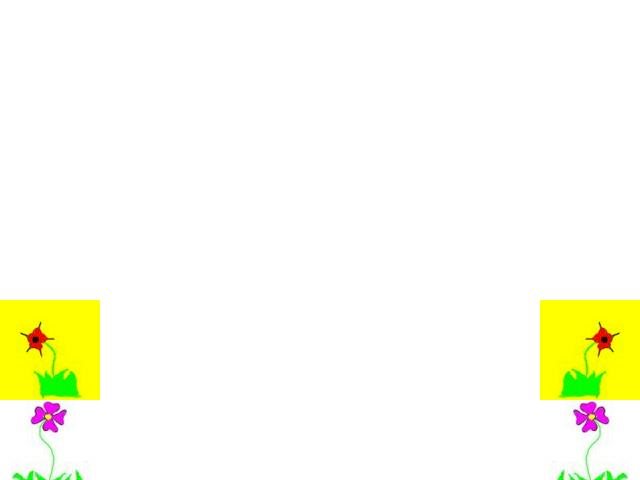
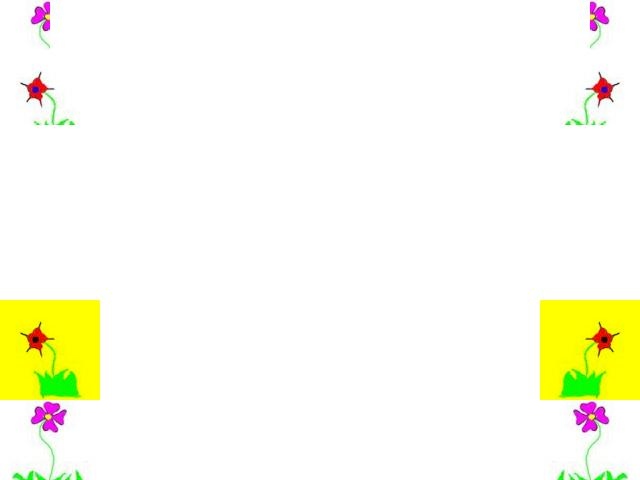
Finished PictureLab

diff --git a/PictureLab/classes/Picture.java b/PictureLab/classes/Picture.java
@@ -345,20 +345,20 @@ public class Picture extends SimplePicture
     }   
   }
   
-  public void copy(Picture fromPic, int startRow, int startCol, int endRow, int endCol)
+  public void copy(Picture fromPic, int startRow, int startCol, int startFromRow, int startFromCol, int endFromRow, int endFromCol)
   {
 	Pixel fromPixel = null;
     Pixel toPixel = null;
     Pixel[][] toPixels = this.getPixels2D();
     Pixel[][] fromPixels = fromPic.getPixels2D();
-    for (int fromRow = 0, toRow = startRow; 
-         fromRow < fromPixels.length &&
-         toRow < endRow; 
+    for (int fromRow = startFromRow, toRow = startRow; 
+         fromRow < endFromRow &&
+         toRow < toPixels.length; 
          fromRow++, toRow++)
     {
-      for (int fromCol = 0, toCol = startCol; 
-           fromCol < fromPixels[0].length &&
-           toCol < endCol;  
+      for (int fromCol =startFromCol, toCol = startCol; 
+           fromCol < endFromCol &&
+           toCol < toPixels[0].length;  
            fromCol++, toCol++)
       {
         fromPixel = fromPixels[fromRow][fromCol];
@@ -373,9 +373,9 @@ public class Picture extends SimplePicture
   {
     Picture flower1 = new Picture("flower1.jpg");
     Picture flower2 = new Picture("flower2.jpg");
-    this.copy(flower1,0,0,5,5);
-    this.copy(flower2,100,0,105,300);
-    this.copy(flower1,200,0,300,300);
+    this.copy(flower1,0,0,0,0,50,50);
+    this.copy(flower2,50,0,0,0,75,75);
+    this.copy(flower1,200,0,10,10,15,15);
     Picture flowerNoBlue = new Picture(flower2);
     flowerNoBlue.zeroBlue();
     this.copy(flowerNoBlue,300,0);
@@ -383,6 +383,21 @@ public class Picture extends SimplePicture
     this.copy(flower2,500,0);
     this.mirrorVertical();
     this.write("collage.jpg");
+  }
+  
+  public void myCollage()
+  {
+	  Picture swan = new Picture("swan.jpg");
+	  Picture koala = new Picture("koala.jpg");
+	  Picture butterfly = new Picture("butterfly1.jpg");
+	  swan.mirrorDiagonal();
+	  koala.negate();
+	  butterfly.grayscale();
+	  this.copy(swan,0,0,0,0,100,100);
+	  this.copy(koala,100,0,0,0,200,200);
+	  this.copy(butterfly,300,0,0,0,300,300);
+	  this.mirrorVertical();
+	  this.write("mycollage.jpg");
   }
   
   
@@ -393,8 +408,11 @@ public class Picture extends SimplePicture
   {
     Pixel leftPixel = null;
     Pixel rightPixel = null;
+	Pixel topPixel = null;
+	Pixel bottomPixel = null;
     Pixel[][] pixels = this.getPixels2D();
     Color rightColor = null;
+	Color bottomColor = null;
     for (int row = 0; row < pixels.length; row++)
     {
       for (int col = 0; 
@@ -410,10 +428,47 @@ public class Picture extends SimplePicture
           leftPixel.setColor(Color.WHITE);
       }
     }
+	
+	for(int row = 0; row < pixels.length - 1; row++)
+	{
+		for(int col = 0; col < pixels[0].length; col++)
+		{
+			topPixel = pixels[row][col];
+			bottomPixel = pixels[row + 1][col];
+			bottomColor = bottomPixel.getColor();
+			if(topPixel.colorDistance(bottomColor) > edgeDist)
+				topPixel.setColor(Color.BLACK);
+			else
+				topPixel.setColor(Color.WHITE);
+		}
+	}
   }
   
-
+  public void edgeDetection2(int edgeDist)
+  {
+    Pixel topPixel = null;
+    Pixel bottomPixel = null;
+	Pixel[][] pixels = this.getPixels2D();
+    double topAverage = 0.0;
+    double bottomAverage = 0.0;
+    int endRow = pixels.length  - 1;
   
+    for (int row = 0; row < endRow; row++) 
+	{
+      for (int col = 0; col < pixels[0].length; col++) 
+	  {
+        topPixel = pixels[row][col];
+        bottomPixel = pixels[row + 1][col];
+        topAverage = topPixel.getAverage();
+        bottomAverage = bottomPixel.getAverage();
+		
+        if (Math.abs(topAverage - bottomAverage) < edgeDist)
+          topPixel.setColor(Color.WHITE);
+        else
+          topPixel.setColor(Color.BLACK);
+      }
+    }
+  }     
   /* Main method for testing - each class in Java can have a main 
    * method 
    */

diff --git a/PictureLab/classes/PictureTester.java b/PictureLab/classes/PictureTester.java
@@ -123,6 +123,13 @@ public class PictureTester
     canvas.explore();
   }
   
+  public static void testMyCollage()
+  {
+	Picture canvas = new Picture("640x480.jpg");
+    canvas.myCollage();
+    canvas.explore(); 
+  }
+  
   public static void testCopy()
   {
 	Picture canvas = new Picture("640x480.jpg");
@@ -161,8 +168,9 @@ public class PictureTester
     //testMirrorGull();
     //testMirrorDiagonal();
     //testCollage();
-    testCopy();
-    //testEdgeDetection();
+	//testMyCollage();
+    //testCopy();
+    testEdgeDetection();
     //testEdgeDetection2();
     //testChromakey();
     //testEncodeAndDecode();
